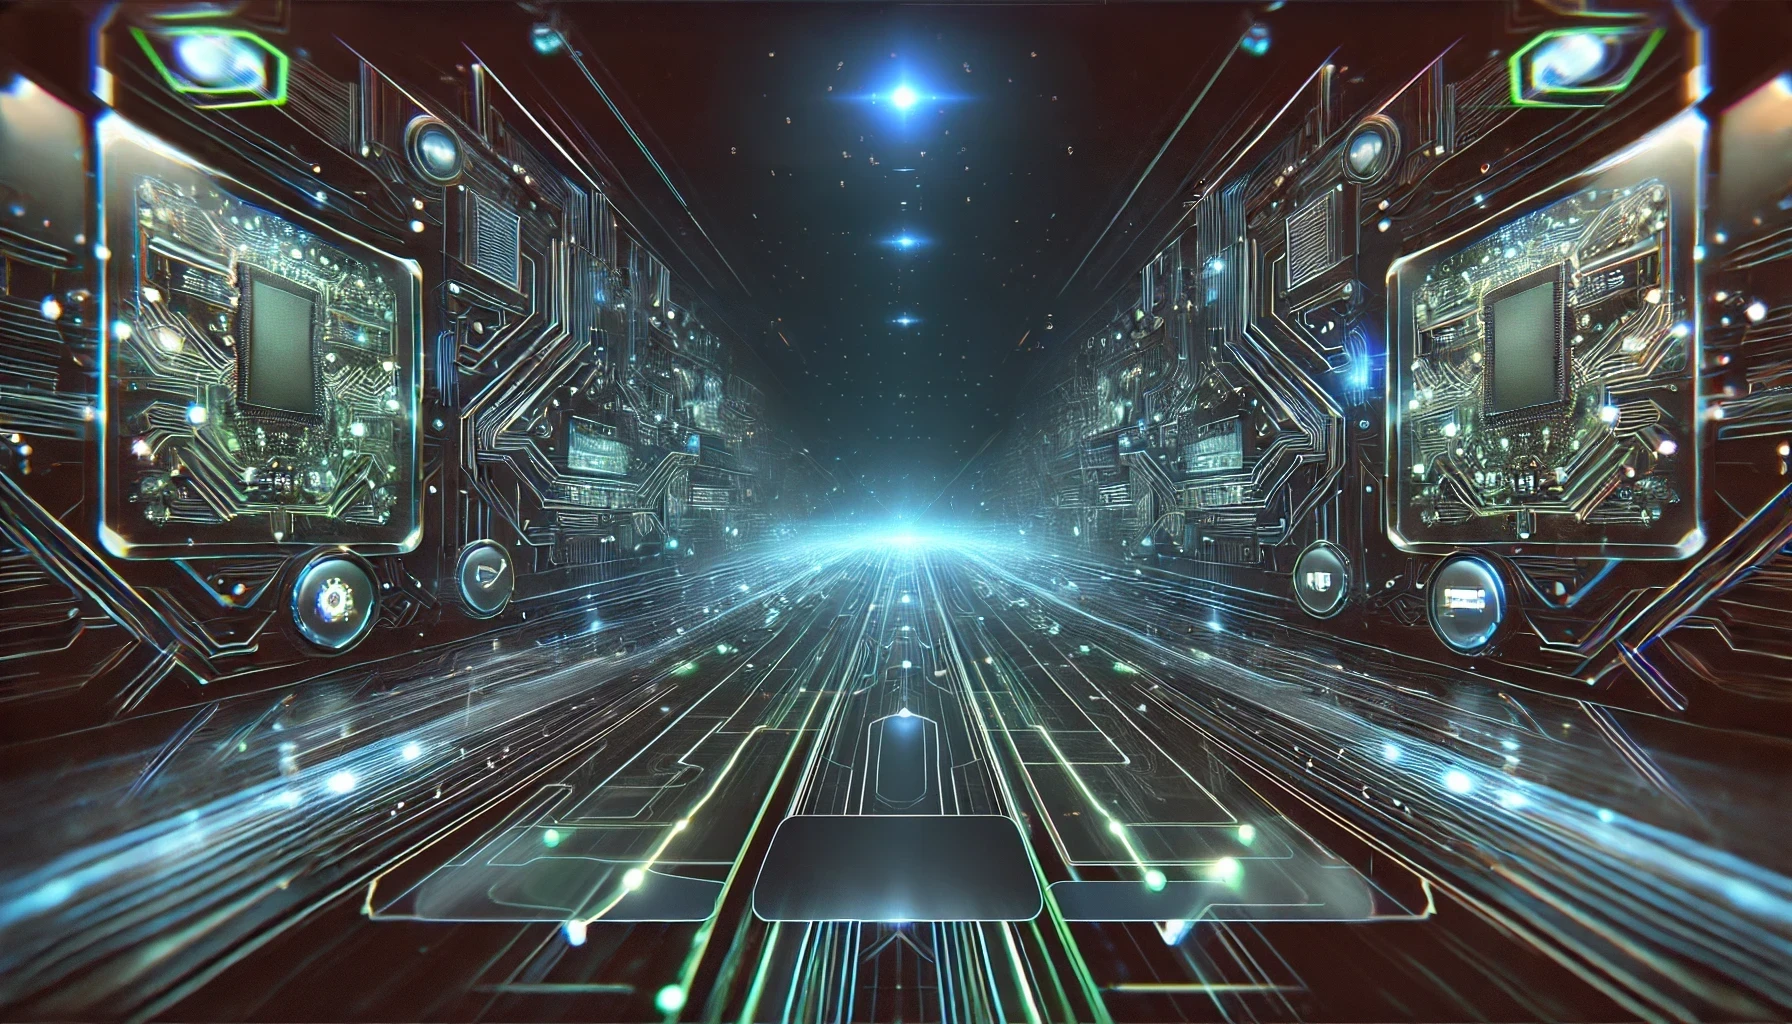
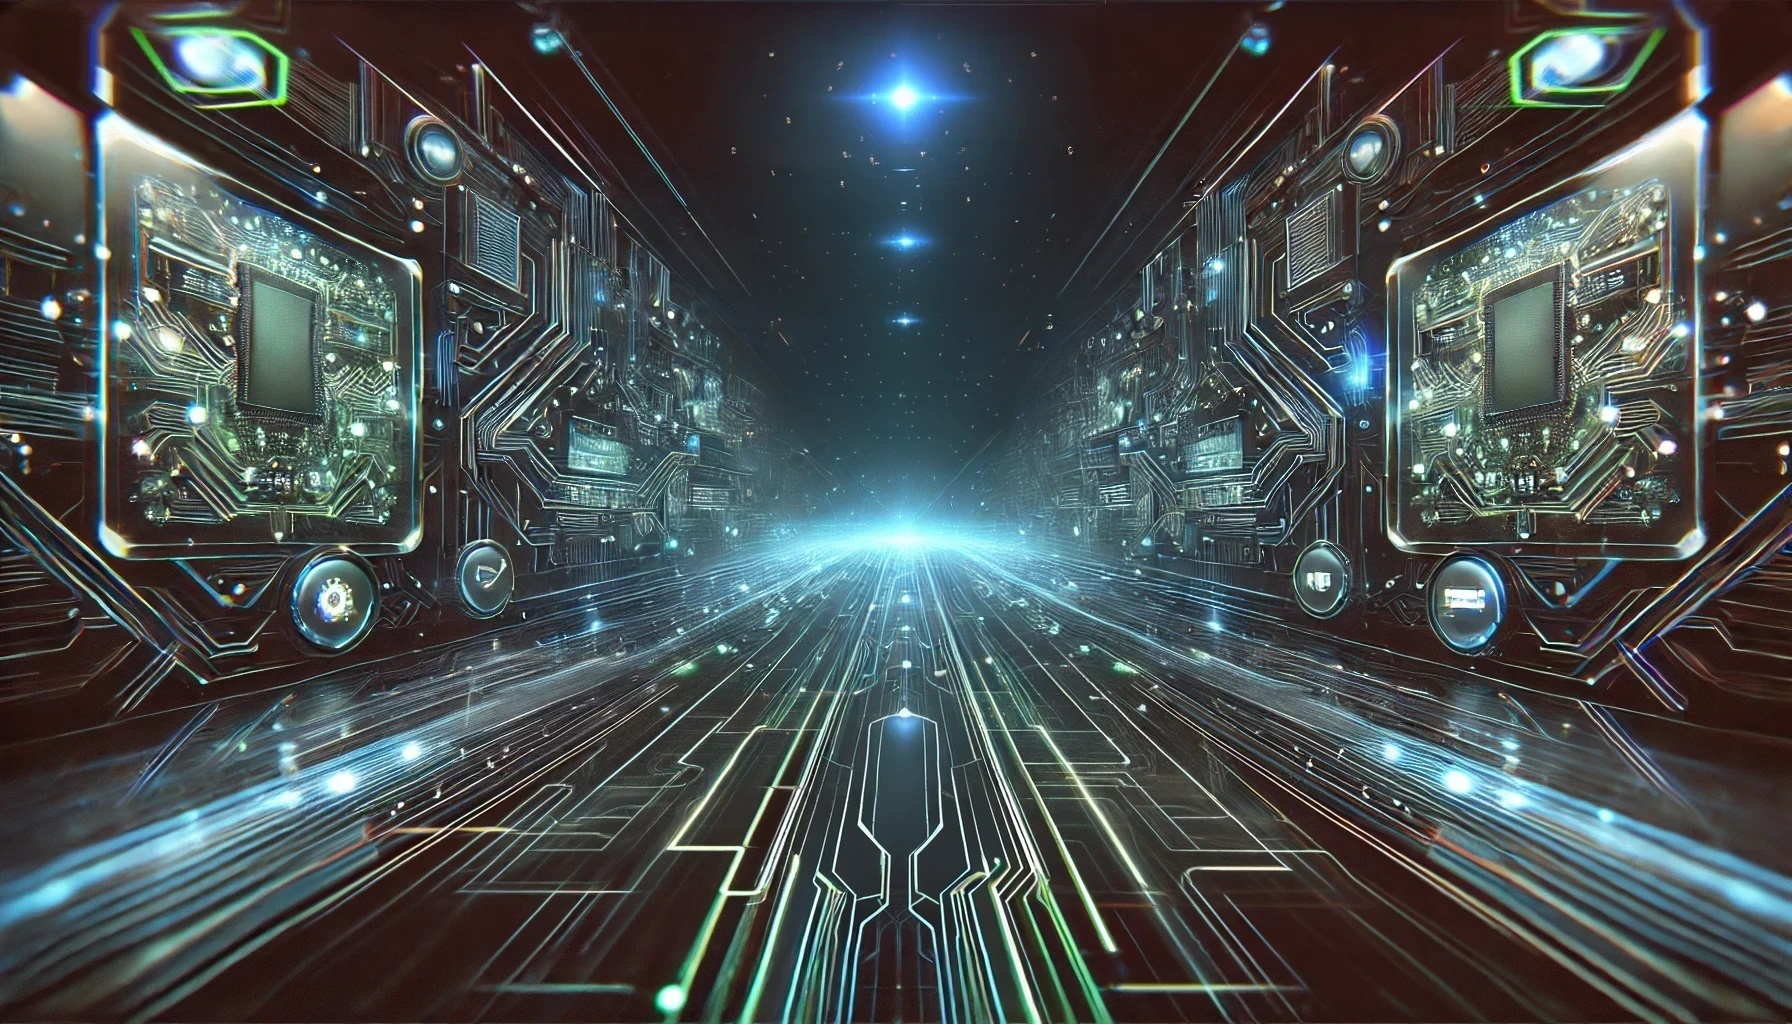
Update

Changed region(s): [[0.1562, 0.75, 0.8438, 0.9688]]

diff --git a/IT.html b/IT.html
@@ -20,32 +20,36 @@
         h2{
             margin-top: -50px;
             color: antiquewhite;
-            font-size: 100px;
+            size: 100px;
         }
         nav ul {
+            
             list-style: none;
             padding: 0;
-            display: flex;
-            justify-content: center;
-            background: rgba(29, 29, 34, 0.808);
-            padding: 10px;
-            border: 1px solid rgba(225, 226, 228, 0.3);
+            outline: flex;
+            background: rgba(16, 16, 17, 0.808); /* Light transparent white */
+            padding: 10px; /* Optional: Adds spacing inside the box */
+            border: 1px solid rgba(225, 226, 228, 0.3); /* Optional: Adds a subtle border */
+           
+           
         }
         nav ul li {
             display: inline;
             margin: 0 15px;
             padding: 10px;
+            
         }
         nav ul li a {
             color: white;
-            text-decoration: none;
+            text-decoration:double;
             font-size: 20px;
         }
         section {
             margin-top: -10px;
+        
             display: flex;
-            flex-direction: column;
-            gap: 10px;
+            flex-direction: column; /* Stack divs vertically */
+            gap: 10px; /* Adds space without affecting margins */
         }
         section h2{
             margin-top: -10px;
@@ -53,65 +57,55 @@
             font-size: 50px;
             height: 100px;
             font-weight: lighter;
+            background-size: auto;
             text-shadow: 2px 2px 4px #e2d9d9;
+
         }
         section p{
             color: #e2d9d9;
             font-size: 40px;
             font-family: 'Segoe UI', Tahoma, Geneva, Verdana, sans-serif;
             margin-top: -10px;
+            position: center, relative;
+          
         }
         .BUTTON{
+            position: fixed, center;
+            margin-top: 130px;
+          
             display: flex;
             justify-content: center;
             gap: 20px;
-            margin-top: 120px;
         }
         .button {
-            height: 255px;
-            width: 230px;
-            background: rgba(29, 29, 34, 0.808);
-            background-size: 225px 225px;
+          
+            border-radius: 25px;
+            height: 305px;
+            width: 260px;
+            background:#1d1d22ce;
+            background-size: 250px 275px;
             background-position: bottom;    
             background-repeat: no-repeat;
+          
             border-color: rgb(175, 175, 179);
             display: flex;
             flex-direction: column;
-            justify-content: flex-start;
-            padding-top: 5px;
+            justify-content: flex-start; /* Pushes text to the bottom */
+            padding-top: 5px; /* Spacing for text */
             font-size: 16px;
             font-weight: bold;
             color: white;
         }
-        
-        /* Responsive Design */
         @media (max-width: 768px) {
-            h2 {
-                font-size: 30px;
-            }
-            section p {
-                font-size: 20px;
-            }
-            nav ul {
-                flex-direction: column;
-                align-items: center;
-                width: 100%;
-            }
-            nav ul li {
-                display: block;
-                padding: 10px 0;
-            }
-            .BUTTON {
-                flex-direction: column;
-                align-items: center;
-                gap: 10px;
-            }
-            .button {
-                width: 90%;
-                height: auto;
-                padding: 10px;
-            }
-        }
+    .button {
+        width: 100%; /* Make buttons stretch on mobile */
+        height: auto;
+    }
+    nav ul {
+        flex-direction: column;
+        text-align: center;
+    }
+}
     </style>
 </head>
 <body>
@@ -131,7 +125,8 @@
             <p>Computer Engineer</p>
         </h2>
     </section>
-    <div class="BUTTON">
+
+    <div class = "BUTTON"> 
         <button class="button" style="background-image: url('Hardware.jpg');">HARDWARE</button>
         <button class="button" style="background-image: url('Software.jpg');">SOFTWARE</button>
         <button class="button" style="background-image: url('Network.jpg');">NETWORK</button>
